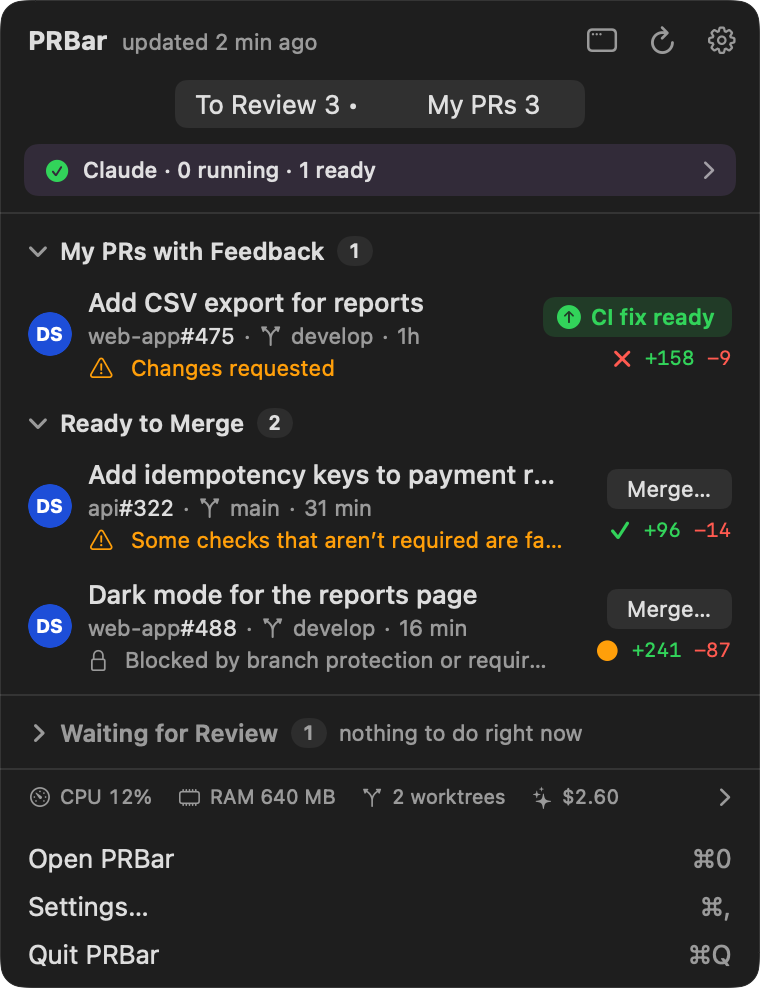
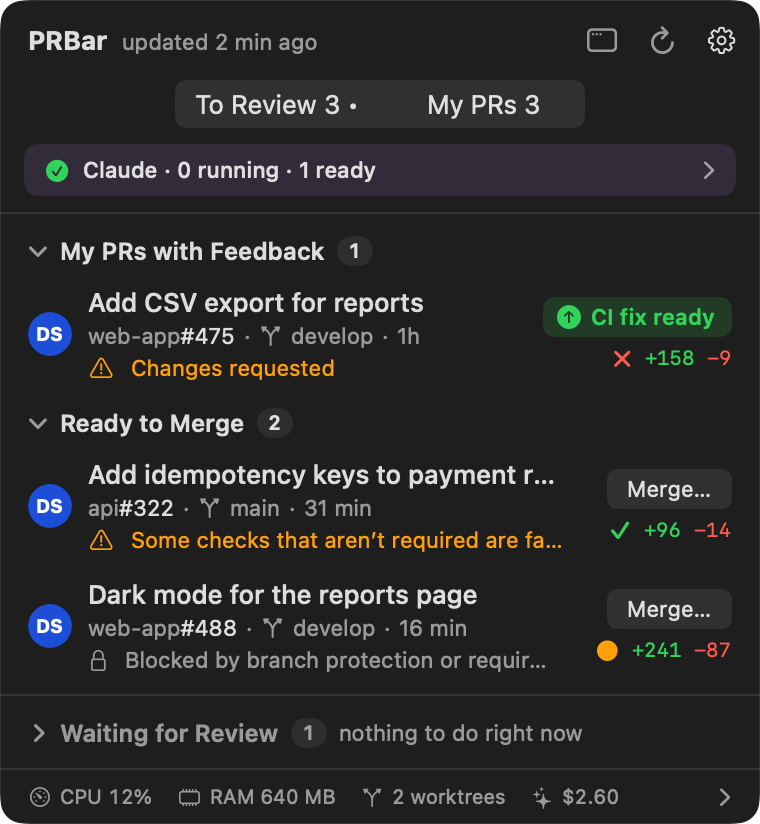
Move Open PRBar, Settings and Quit back to the popover's gear menu

diff --git a/Sources/PRBar/Popover/PopoverView.swift b/Sources/PRBar/Popover/PopoverView.swift
@@ -30,13 +30,13 @@ struct PopoverView: View {
             }
             Divider().padding(.bottom, 4)
             content
-            // El pie (spec M.3): recursos (abre Activity), el aviso de actualización y los ítems de la app.
-            Divider()
+            // El pie (spec M.3): recursos (abre Activity) y el aviso de actualización. Open PRBar, Settings y Quit
+            // están en el menú ⚙ de la cabecera (pedido del usuario).
             if showsTabs {
+                Divider()
                 ResourceFooter(monitor: model.resources, monthCost: monthCost) { model.openActivityWindow() }
             }
             UpdateNotice(updates: model.updates) { model.openUpdateWindow() }
-            PopoverFooterMenu(model: model)
         }
         .frame(width: Theme.popoverWidth)
         .onGeometryChange(for: CGFloat.self) { $0.size.height } action: { totalHeight = $0 }
@@ -85,7 +85,24 @@ struct PopoverView: View {
                 .keyboardShortcut("r", modifiers: .command)
                 .disabled(prStore.isRefreshing || limitedUntil != nil)
             }
-            IconButton(systemImage: "gearshape", help: "Settings (⌘,)", size: 13) { model.openSettings() }
+            Menu {
+                Button("Open PRBar") { model.openMainWindow() }
+                    .keyboardShortcut("0", modifiers: .command)
+                Button("Settings…") { model.openSettings() }
+                    .keyboardShortcut(",", modifiers: .command)
+                Divider()
+                Button("Quit PRBar") { NSApp.terminate(nil) }
+                    .keyboardShortcut("q", modifiers: .command)
+            } label: {
+                Image(systemName: "gearshape").font(.system(size: 13, weight: .medium))
+            }
+            .menuStyle(.borderlessButton)
+            .menuIndicator(.hidden)
+            .fixedSize()
+            .frame(width: 22, height: 22)
+            .hoverHighlight(cornerRadius: Theme.Radius.button)
+            .help("More options")
+            .accessibilityLabel("More options")
         }
         .foregroundStyle(.secondary)
         .padding(.leading, 14)
@@ -119,21 +136,27 @@ struct PopoverView: View {
         .help("⌘1 To Review · ⌘2 My PRs")
     }
 
-    /// ⌘1/⌘2 cambian de pestaña sin un control propio: botones invisibles (⌘0, ⌘, y ⌘Q son de los ítems del pie).
-    @ViewBuilder
+    /// Los atajos del menú ⚙ también tienen que andar con el menú cerrado (un `Menu` solo atiende los de sus ítems
+    /// mientras está abierto), así que se repiten en botones invisibles; ⌘1/⌘2 cambian de pestaña sin control propio.
     private var keyboardShortcuts: some View {
-        // Solo cuando se ve el control (decisión H.4.6): sin él no hay pestañas que cambiar.
-        if showsTabs {
-            ZStack {
+        ZStack {
+            Button("Open PRBar") { model.openMainWindow() }
+                .keyboardShortcut("0", modifiers: .command)
+            Button("Settings…") { model.openSettings() }
+                .keyboardShortcut(",", modifiers: .command)
+            Button("Quit PRBar") { NSApp.terminate(nil) }
+                .keyboardShortcut("q", modifiers: .command)
+            // ⌘1/⌘2 solo cuando se ve el control (decisión H.4.6): sin él no hay pestañas que cambiar.
+            if showsTabs {
                 Button("To Review") { tabs.selected = .toReview }
                     .keyboardShortcut("1", modifiers: .command)
                 Button("My PRs") { tabs.selected = .mine }
                     .keyboardShortcut("2", modifiers: .command)
             }
-            .opacity(0)
-            .allowsHitTesting(false)
-            .accessibilityHidden(true)
         }
+        .opacity(0)
+        .allowsHitTesting(false)
+        .accessibilityHidden(true)
     }
 
     /// Hora de reintento si GitHub nos limitó y todavía no pasó; `nil` si se puede refrescar.
@@ -319,6 +342,7 @@ private struct UpdateNotice: View {
 
     var body: some View {
         if let version = updates.available?.version.description {
+            Divider()
             HStack(spacing: 8) {
                 Image(systemName: "arrow.down.circle.fill").foregroundStyle(Theme.accent)
                 Text(updates.isInstalling ? "Installing PRBar \(version)…" : "PRBar \(version) available")
@@ -329,41 +353,6 @@ private struct UpdateNotice: View {
             }
             .padding(.horizontal, 14)
             .padding(.vertical, 7)
-            Divider()
         }
-    }
-}
-
-/// Open PRBar ⌘0 · Settings… ⌘, · Quit PRBar ⌘Q, como ítems de menú al pie del popover (spec M.3; Quit por pedido
-/// del usuario: la app no tiene Dock mientras no hay ventanas).
-private struct PopoverFooterMenu: View {
-    let model: AppModel
-
-    var body: some View {
-        VStack(spacing: 0) {
-            item("Open PRBar", "⌘0", key: "0") { model.openMainWindow() }
-            item("Settings…", "⌘,", key: ",") { model.openSettings() }
-            item("Quit PRBar", "⌘Q", key: "q") { NSApp.terminate(nil) }
-        }
-        .padding(.vertical, 5)
-    }
-
-    private func item(_ title: String, _ shortcut: String, key: KeyEquivalent, action: @escaping () -> Void) -> some View {
-        Button(action: action) {
-            HStack {
-                Text(title).foregroundStyle(.primary)
-                Spacer(minLength: 8)
-                Text(shortcut).foregroundStyle(.secondary)
-            }
-            .font(.system(size: 13))
-            .padding(.horizontal, 8)
-            .padding(.vertical, 4)
-            .contentShape(Rectangle())
-        }
-        .buttonStyle(.plain)
-        .hoverHighlight(cornerRadius: Theme.Radius.row)
-        .padding(.horizontal, 6)
-        .keyboardShortcut(key, modifiers: .command)
-        .accessibilityLabel(title)
     }
 }

diff --git a/Sources/PRBarTests/UIActionInventory.swift b/Sources/PRBarTests/UIActionInventory.swift
@@ -136,12 +136,12 @@ enum UIActionInventory {
         .init("Popover/Components.swift", "Button", "-", 2, .cli(["app settings", "refresh"])),   // colapsar sección (vista) y la acción de MessageView
         .init("Popover/Components.swift", "IconButton", "checkmark", 1, .viewOnly("copies `gh auth login --hostname github.com`; `prbar doctor` prints it")),
         .init("Popover/PopoverView.swift", "IconButton", "macwindow", 1, .viewOnly("opens the main window")),
-        .init("Popover/PopoverView.swift", "IconButton", "gearshape", 1, .cli(["app settings"])),
-        .init("Popover/PopoverView.swift", "MenuItem", "Open PRBar", 1, .viewOnly("opens the main window")),   // ⌘0
-        .init("Popover/PopoverView.swift", "MenuItem", "Settings…", 1, .cli(["app settings"])),   // ⌘,
-        .init("Popover/PopoverView.swift", "MenuItem", "Quit PRBar", 1, .cli(["app quit"])),   // ⌘Q
-        // La franja de Claude y el botón de cada ítem del pie (`item(_:_:key:action:)`).
-        .init("Popover/PopoverView.swift", "Button", "-", 2, .viewOnly("navigation in the main window")),
+        // El menú ⚙ y sus atajos repetidos en botones invisibles (⌘0, ⌘, y ⌘Q con el menú cerrado).
+        .init("Popover/PopoverView.swift", "Button", "Open PRBar", 2, .viewOnly("opens the main window")),
+        .init("Popover/PopoverView.swift", "Button", "Settings…", 2, .cli(["app settings"])),
+        .init("Popover/PopoverView.swift", "Button", "Quit PRBar", 2, .cli(["app quit"])),
+        // La franja de Claude.
+        .init("Popover/PopoverView.swift", "Button", "-", 1, .viewOnly("navigation in the main window")),
         .init("Popover/PopoverView.swift", "Component:UpdateNotice", "-", 1, .cli(["update"])),
         .init("Popover/PopoverView.swift", "IconButton", "-", 1, .cli(["refresh"])),
         .init("Popover/PopoverView.swift", "Picker", "Tab", 1, .cli(["app popover", "prs"])),   // --tab

diff --git a/docs/screenshots/README.md b/docs/screenshots/README.md
@@ -21,7 +21,7 @@ Every screen comes in `-light` and `-dark`, at 2x:
 | --- | --- |
 | `menubar-icon` | The menu bar icon with a badge of 5, on a menu-bar-like strip |
 | `menubar-icon-update` | The same icon with the blue "update available" dot at the glyph's top-right corner |
-| `popover` | The popover's To Review tab (selected; My PRs shows "3 •"): To Review (one idle, one "Reviewing…" on devbox), Updated Since My Review (ready, 4 comments, "Ran on this Mac — devbox unreachable"), Other collapsed. Under the tabs, the Claude strip (1 running · 1 ready); at the bottom the resources line (CPU, RAM, worktrees, this month's Claude cost) and Open PRBar ⌘0, Settings… ⌘, and Quit PRBar ⌘Q |
+| `popover` | The popover's To Review tab (selected; My PRs shows "3 •"): To Review (one idle, one "Reviewing…" on devbox), Updated Since My Review (ready, 4 comments, "Ran on this Mac — devbox unreachable"), Other collapsed. Under the tabs, the Claude strip (1 running · 1 ready); at the bottom the resources line (CPU, RAM, worktrees, this month's Claude cost); Open PRBar ⌘0, Settings… ⌘, and Quit PRBar ⌘Q are in the ⚙ menu at the top right |
 | `popover-update` | The To Review tab with PRBar 1.3.0 offered: the update notice with its Update button in the footer |
 | `popover-mine` | The My PRs tab: My PRs with Feedback (Changes requested, failing CI with **Fix CI** next to Respond), Ready to Merge (one ready, one blocked) and Waiting for Review (collapsed) |
 | `popover-mine-ci-fix` | The My PRs tab while a Fix CI waits to be pushed: the row's "CI fix ready" pill |
